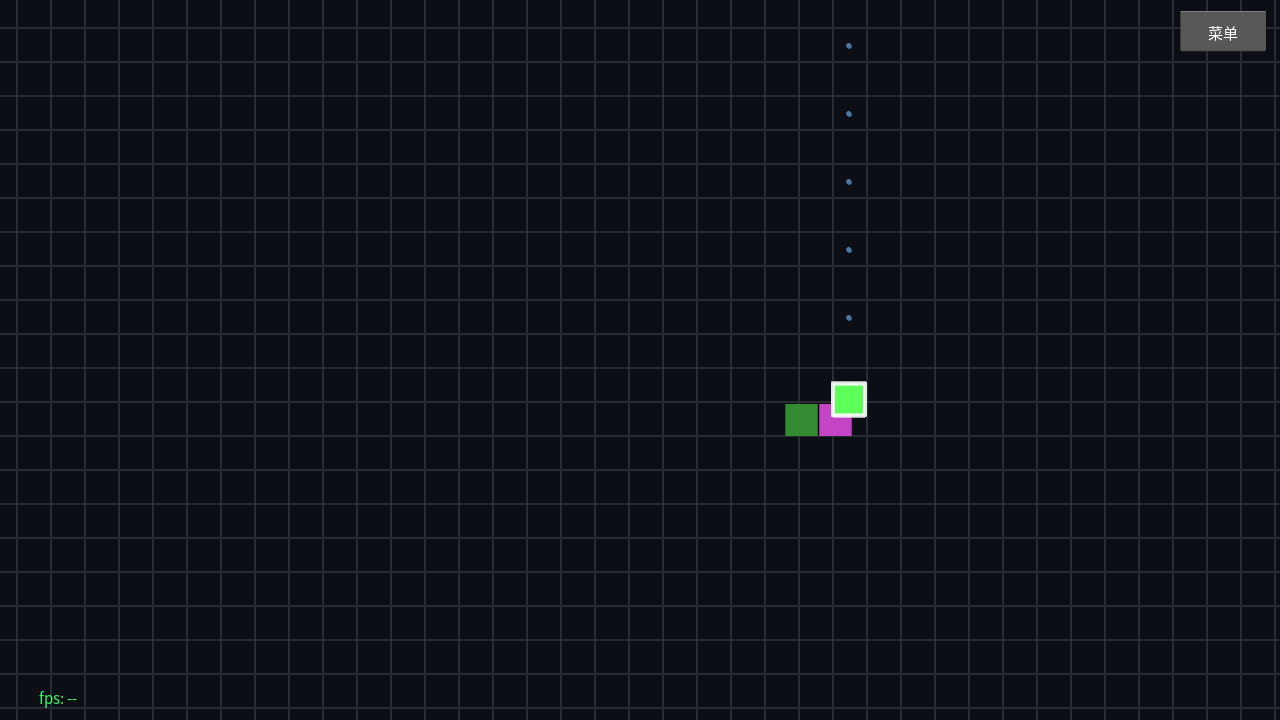
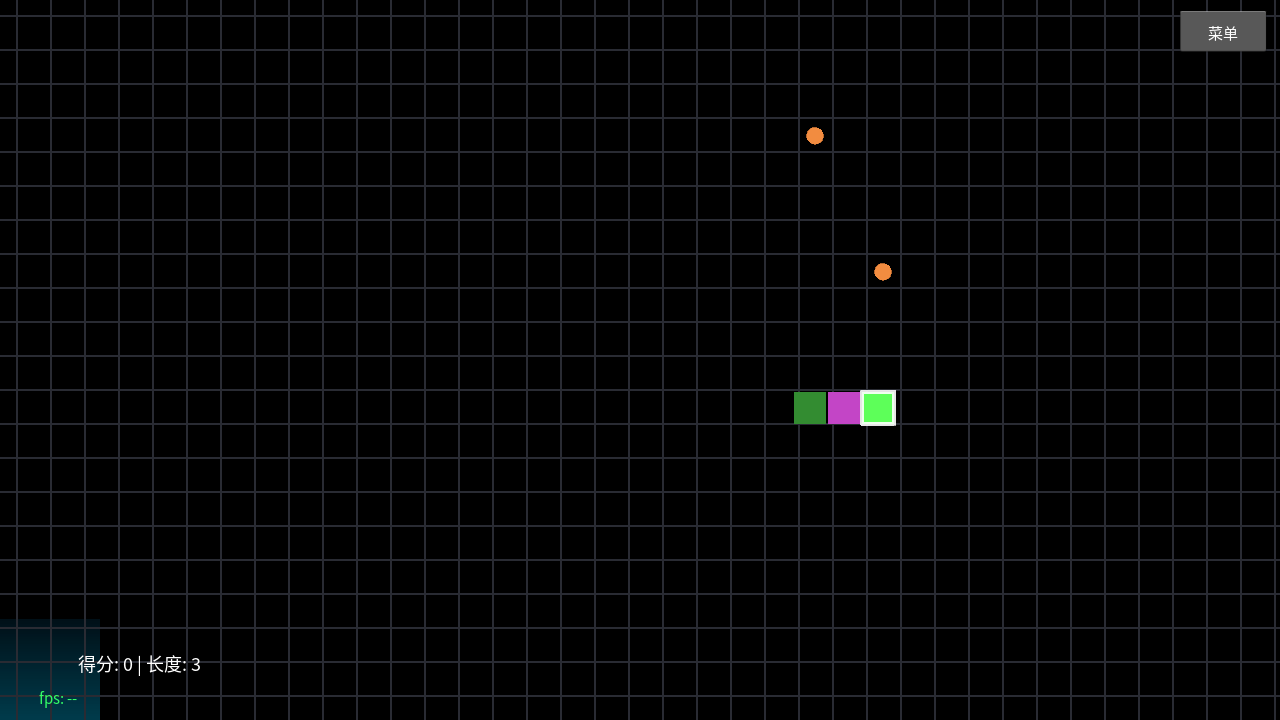
Fix AI cheap-mode deadlock, food cap 5, scoreboard, cached background layer

diff --git a/src/view/game_canvas.py b/src/view/game_canvas.py
@@ -52,6 +52,10 @@ class GameCanvas(Widget):
         self.bg_index = 0
         self.snake_hue = 0.33
         self.view_zoom = 1.0
+        from kivy.graphics import InstructionGroup
+        self._static = InstructionGroup()
+        self.canvas.before.add(self._static)
+        self._static_dirty = True
         self._cells_buf: list = []                 # R5A：蛇身插值缓冲复用
         self.colors = palette("dark")
         self.show_grid = True
@@ -181,30 +185,43 @@ class GameCanvas(Widget):
         self._status_text = ""
 
     # ---------- 绘制 ----------
+    def _rebuild_static(self) -> None:
+        """背景层缓存：只在 resize / 主题 / 背景变化时重建（不再每帧重画）。"""
+        from core.colors import background_color, gradient_pair
+        from kivy.graphics import Color, Rectangle
+
+        self._static.clear()
+        if self.bg_mode == "gradient":
+            top, bottom = gradient_pair(self.bg_index)
+            bands = 40
+            for i in range(bands):
+                t = i / (bands - 1)
+                self._static.add(Color(
+                    top[0] + (bottom[0] - top[0]) * t,
+                    top[1] + (bottom[1] - top[1]) * t,
+                    top[2] + (bottom[2] - top[2]) * t, 1,
+                ))
+                self._static.add(Rectangle(
+                    pos=(self.x, self.y + self.height * (bands - 1 - i) / bands),
+                    size=(self.width, self.height / bands + 1),
+                ))
+        else:
+            r, g, b = background_color(self.bg_index)
+            self._static.add(Color(r, g, b, 1))
+            self._static.add(Rectangle(pos=self.pos, size=self.size))
+        self._static_dirty = False
+
     def rebuild(self) -> None:
         self.canvas.clear()
         vp = self.viewport
         if vp is None:
             return
 
+        if self._static_dirty:
+            self._rebuild_static()
+
         g = vp.grid_size
         with self.canvas:
-            if self.bg_mode == "gradient":
-                # 方案 B：40 条等高长条逐条 RGB 插值（避免纹理拉伸出的横线）
-                top, bottom = gradient_pair(self.bg_index)
-                bands = 40
-                for i in range(bands):
-                    t = i / (bands - 1)
-                    Color(top[0] + (bottom[0] - top[0]) * t,
-                          top[1] + (bottom[1] - top[1]) * t,
-                          top[2] + (bottom[2] - top[2]) * t, 1)
-                    Rectangle(pos=(self.x, self.y + self.height * (bands - 1 - i) / bands),
-                              size=(self.width, self.height / bands + 1))
-            else:
-                br, bgc, bb = background_color(self.bg_index)
-                Color(br, bgc, bb, 1)
-                Rectangle(pos=self.pos, size=self.size)
-
             if self.show_grid:
                 # 单张 16x16 平铺纹理：整屏网格 1 个 draw call（不再逐条 Line）
                 Color(*self.colors["grid"])
@@ -366,10 +383,12 @@ class GameCanvas(Widget):
         """背景选择：solid / gradient，index 0~15（实时重建）。"""
         self.bg_mode = "gradient" if mode == "gradient" else "solid"
         self.bg_index = int(index) % 16
+        self._static_dirty = True
         self.rebuild()
 
     def set_theme(self, name: str) -> None:
         self.colors = palette(name)
+        self._static_dirty = True
         self.rebuild()
 
     def apply_view_options(self, show_grid: bool, head_highlight: bool) -> None:

diff --git a/src/ai/session.py b/src/ai/session.py
@@ -77,16 +77,21 @@ class AISession:
         self.timeout_s = budget_s if budget_s is not None else (0.0035 if high else 0.0070)
         self.controller.radius_cap = 40 if high else 80
 
-        # FOLLOW_TAIL 省钱模式：视野内没有食物时，沿用安全方向，不跑 A*/洪泛
-        near_food = any(abs(c[0] - snake.head[0]) <= 10 and abs(c[1] - snake.head[1]) <= 10
+        # FOLLOW_TAIL 省钱模式：仅当「附近确实没食物」且连续使用不超过 12 tick
+        near_food = any(abs(c[0] - snake.head[0]) <= 30 and abs(c[1] - snake.head[1]) <= 30
                         for c in world.foods())
-        if (not near_food and self.controller.state == "FOLLOW_TAIL"
+        cheap_ok = (not near_food and world.food_count() == 0) or (
+            not near_food and getattr(self, "_cheap_ticks", 0) < 12
+        )
+        if (cheap_ok and self.controller.state == "FOLLOW_TAIL"
                 and self.last_direction is not None
                 and self.controller.safe_step(world, snake, self.last_direction, wrap_mode)):
+            self._cheap_ticks = getattr(self, "_cheap_ticks", 0) + 1
             self._follow_cheap = True
             self.stats["follow_cheap"] = self.stats.get("follow_cheap", 0) + 1
             self.stats["alive_ticks"] = self.ticks
             return self.last_direction
+        self._cheap_ticks = 0
         self._follow_cheap = False
 
         # 高速档：每 2 tick 决策一次；其余每 tick

diff --git a/src/app/app.py b/src/app/app.py
@@ -55,6 +55,7 @@ from data.achievements import evaluate
 from view.confirm_dialog import ConfirmDialog
 from view.debug_overlay import DebugOverlay
 from view.fps_label import FpsLabel
+from view.score_label import ScoreLabel
 from view.menu import MenuButton, Scrim
 from view.replay_panel import ReplayPanel
 from view.stats_panel import StatsPanel
@@ -231,7 +232,9 @@ class SnakeApp(App):
         self.root_layout = root
         self.debug_overlay = DebugOverlay(pos_hint={'x': 0.30, 'top': 0.98})
         self.fps_label = FpsLabel(pos=(10, 10))
+        self.score_label = ScoreLabel(pos=(10, 42))
         root.add_widget(self.fps_label)
+        root.add_widget(self.score_label)
         self.canvas_widget.set_background(self.cfg.get('bg_mode', 'solid'), self.cfg.get('bg_index', 0))
         self.canvas_widget.set_view_scale(float(self.cfg.get('view_zoom', 1.0)))
         root.add_widget(self.debug_overlay)
@@ -765,6 +768,7 @@ class SnakeApp(App):
             self._time_since_chunk = 0.0
             self._update_chunks()
         if summary.ticks or summary.died:
+            self.score_label.update_score(self.game.score, len(self.game.snake))
             self.recorder.tick(self.game.snake.direction)
             self.panel.refresh()
         if self.debug_stats.enabled:

diff --git a/src/view/score_label.py b/src/view/score_label.py
@@ -1,0 +1,25 @@
+"""常驻计分板：得分 + 长度。"""
+
+from __future__ import annotations
+
+from kivy.uix.label import Label
+
+from app import strings
+from app.fonts import FONT_NAME
+
+
+class ScoreLabel(Label):
+    def __init__(self, **kw) -> None:
+        kw.setdefault("font_name", FONT_NAME)
+        kw.setdefault("font_size", 18.0)
+        kw.setdefault("color", (1, 1, 1, 1))
+        kw.setdefault("size_hint", (None, None))
+        kw.setdefault("size", (260, 30))
+        kw.setdefault("halign", "left")
+        kw.setdefault("valign", "middle")
+        super().__init__(text="", **kw)
+        self.bind(size=lambda w, *_: setattr(w, "text_size", w.size))
+        self.update_score(0, 3)
+
+    def update_score(self, score: int, length: int) -> None:
+        self.text = f"{strings.t('score')}: {score} | {strings.t('length')}: {length}"

diff --git a/src/app/strings.py b/src/app/strings.py
@@ -7,6 +7,7 @@ DEFAULT_LANG = "zh"
 ZH = {
     "game_over": "游戏结束",
     "score": "得分",
+    "length": "长度",
     "restart_hint": "按 R 重新开始",
     "paused": "已暂停",
     "restart_confirm": "确定要重新开始吗？",
@@ -88,6 +89,7 @@ ZH = {
 EN = {
     "game_over": "GAME OVER",
     "score": "Score",
+    "length": "Length",
     "restart_hint": "Press R to restart",
     "paused": "Paused",
     "restart_confirm": "Restart this run?",

diff --git a/src/core/food.py b/src/core/food.py
@@ -63,6 +63,8 @@ def ensure_local_food(world, snake, rng: random.Random, radius: int = 10):
         return sum(1 for c in world.foods()
                    if abs(c[0] - hx) <= r and abs(c[1] - hy) <= r)
 
+    if world.food_count() >= 5:
+        return None
     if near_count(radius) >= 2:
         return None
 
